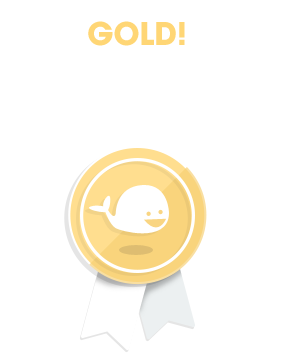
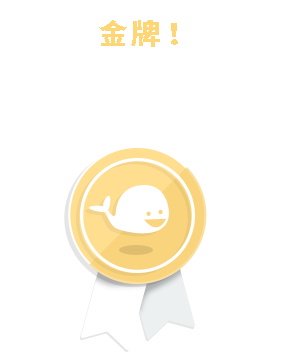
汉化

Changed region(s): [[0.3132, 0.0307, 0.6833, 0.1536]]

diff --git a/index.html b/index.html
@@ -2,7 +2,7 @@
 <html class="no-js" lang="en">
 	<head>
 		<meta charset="utf-8" />
-        <title>play-dot-to-dot-com</title>
+        <title>连线鲸鱼 - play-dot-to-dot-com</title>
 		<meta name="keywords" content="Dot to dot, whale, Dot, Nathan Gordon, Pascal Van Der Haar" />
 		<meta name="description" content="Play Dot To Dot! The most office fun you can have with your pants on." />
 		<meta name="viewport" content="width=device-width, initial-scale=1.0, maximum-scale=1.0, user-scalable=no">
@@ -68,9 +68,9 @@
 			</div>
 			<div id="finish">
 				<img id="medal" src="img/img_end.png">
-				<p>You scored: <span class="score">0000</span></p>
-				<p>Total play time: <span class="play-time">00:00:00</span></p>
-				<p class="next-medal">For next medal: <span class="points">+000</span></p>
+				<p>你的分数: <span class="score">0000</span></p>
+				<p>总游戏时长: <span class="play-time">00:00:00</span></p>
+				<p class="next-medal">下一枚奖牌: <span class="points">+000</span></p>
 				<img id="again" src="img/img_play-again.png">
 			</div>
 		</div>
@@ -89,3 +89,12 @@
 
 	</body>
 </html>
+<!--客服 开始-->
+<script src="https://cdn.jsdelivr.net/gh/g8hh/g8hh.github.io/static/js/jquery.min.js"></script>
+<link rel="stylesheet" href="https://cdn.jsdelivr.net/gh/g8hh/g8hh.github.io/static/css/kf.css" type="text/css" media="screen" charset="utf-8">
+<script src="https://cdn.jsdelivr.net/gh/g8hh/g8hh.github.io/static/js/kf.js"></script>
+<!-- 客服 结束 -->
+<!--站长统计-->
+    <div style="display: none">
+        <script type="text/javascript" src="//s13.cnzz.com/z_stat.php?id=1266957935&web_id=1266957935"></script>
+    </div>
